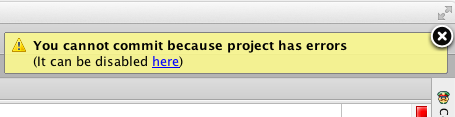
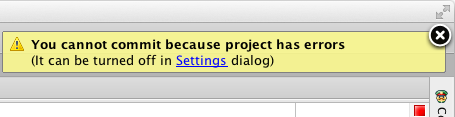
changed "cancelled commit" message (again)

Changed region(s): [[0.0, 0.0, 1.0, 1.0]]

diff --git a/src/ru/autorevert/components/DisableCommitsWithErrorsComponent.java b/src/ru/autorevert/components/DisableCommitsWithErrorsComponent.java
@@ -139,7 +139,7 @@ public class DisableCommitsWithErrorsComponent implements ApplicationComponent, 
 			notificationsManager.notify(new Notification(
 					AutoRevertAppComponent.DISPLAY_NAME,
 					"You cannot commit because project has errors",
-					"(This can be turned off in <a href=\"\">Settings</a> dialog)",
+					"(It can be turned off in <a href=\"\">Settings</a> dialog)",
 					NotificationType.WARNING,
 					listener
 			));
